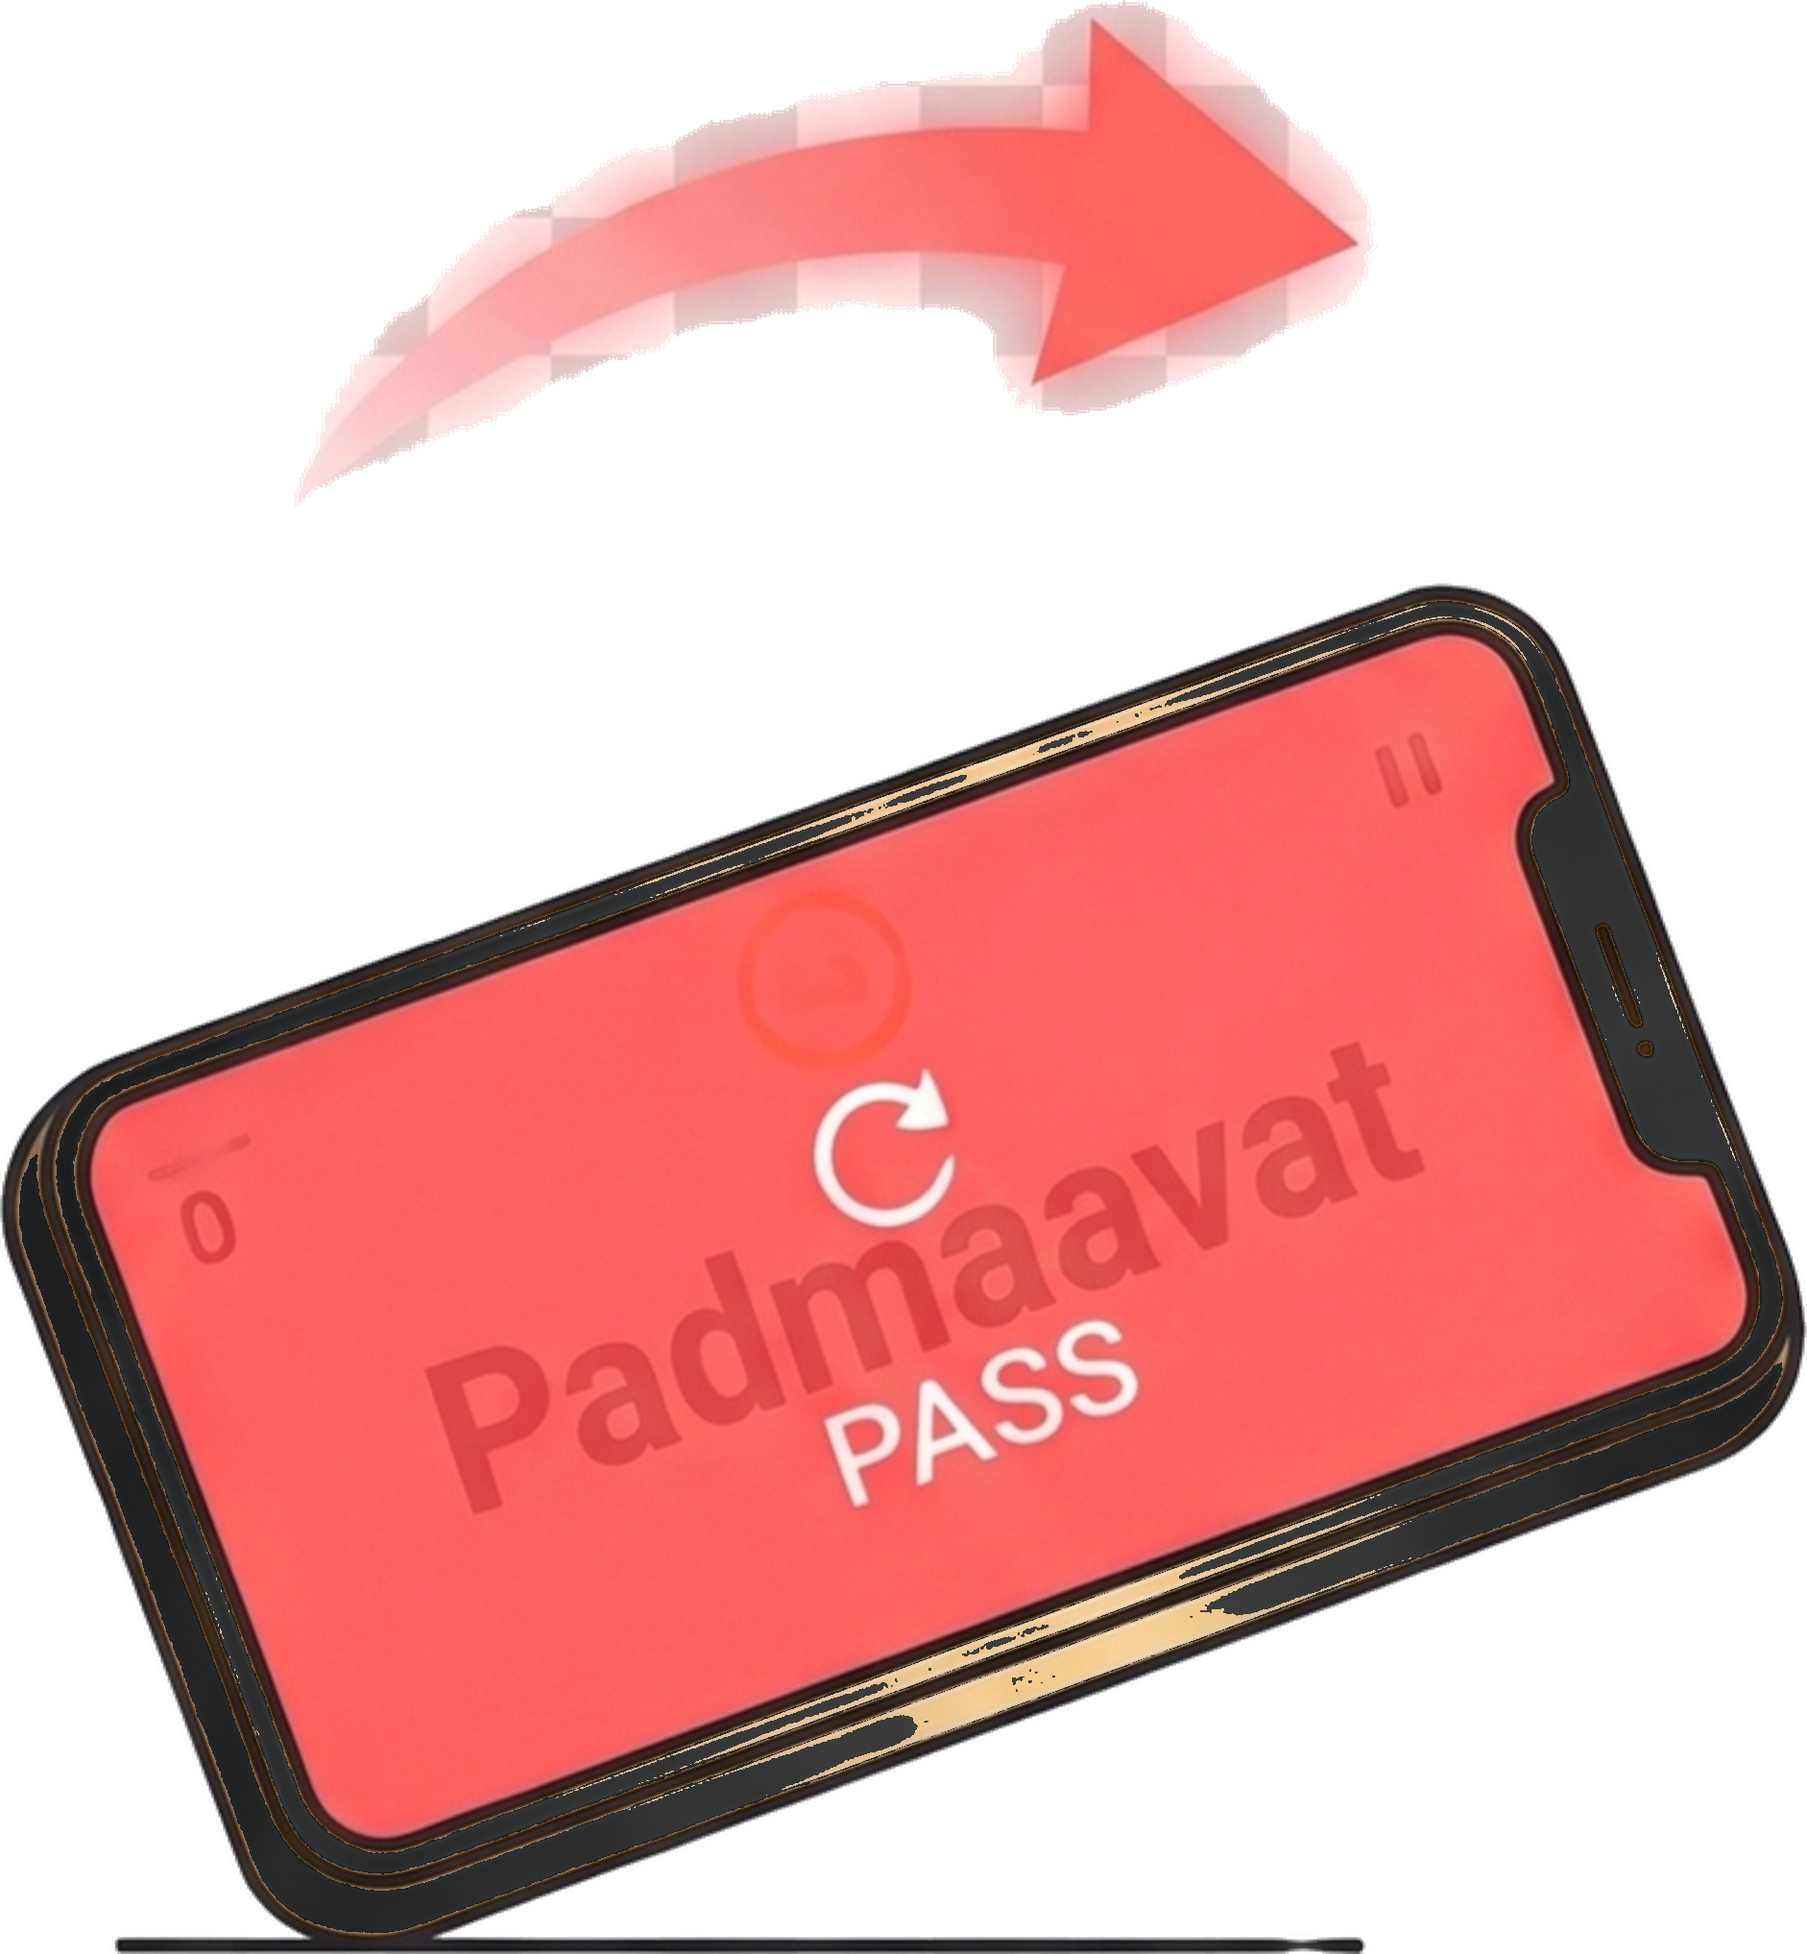
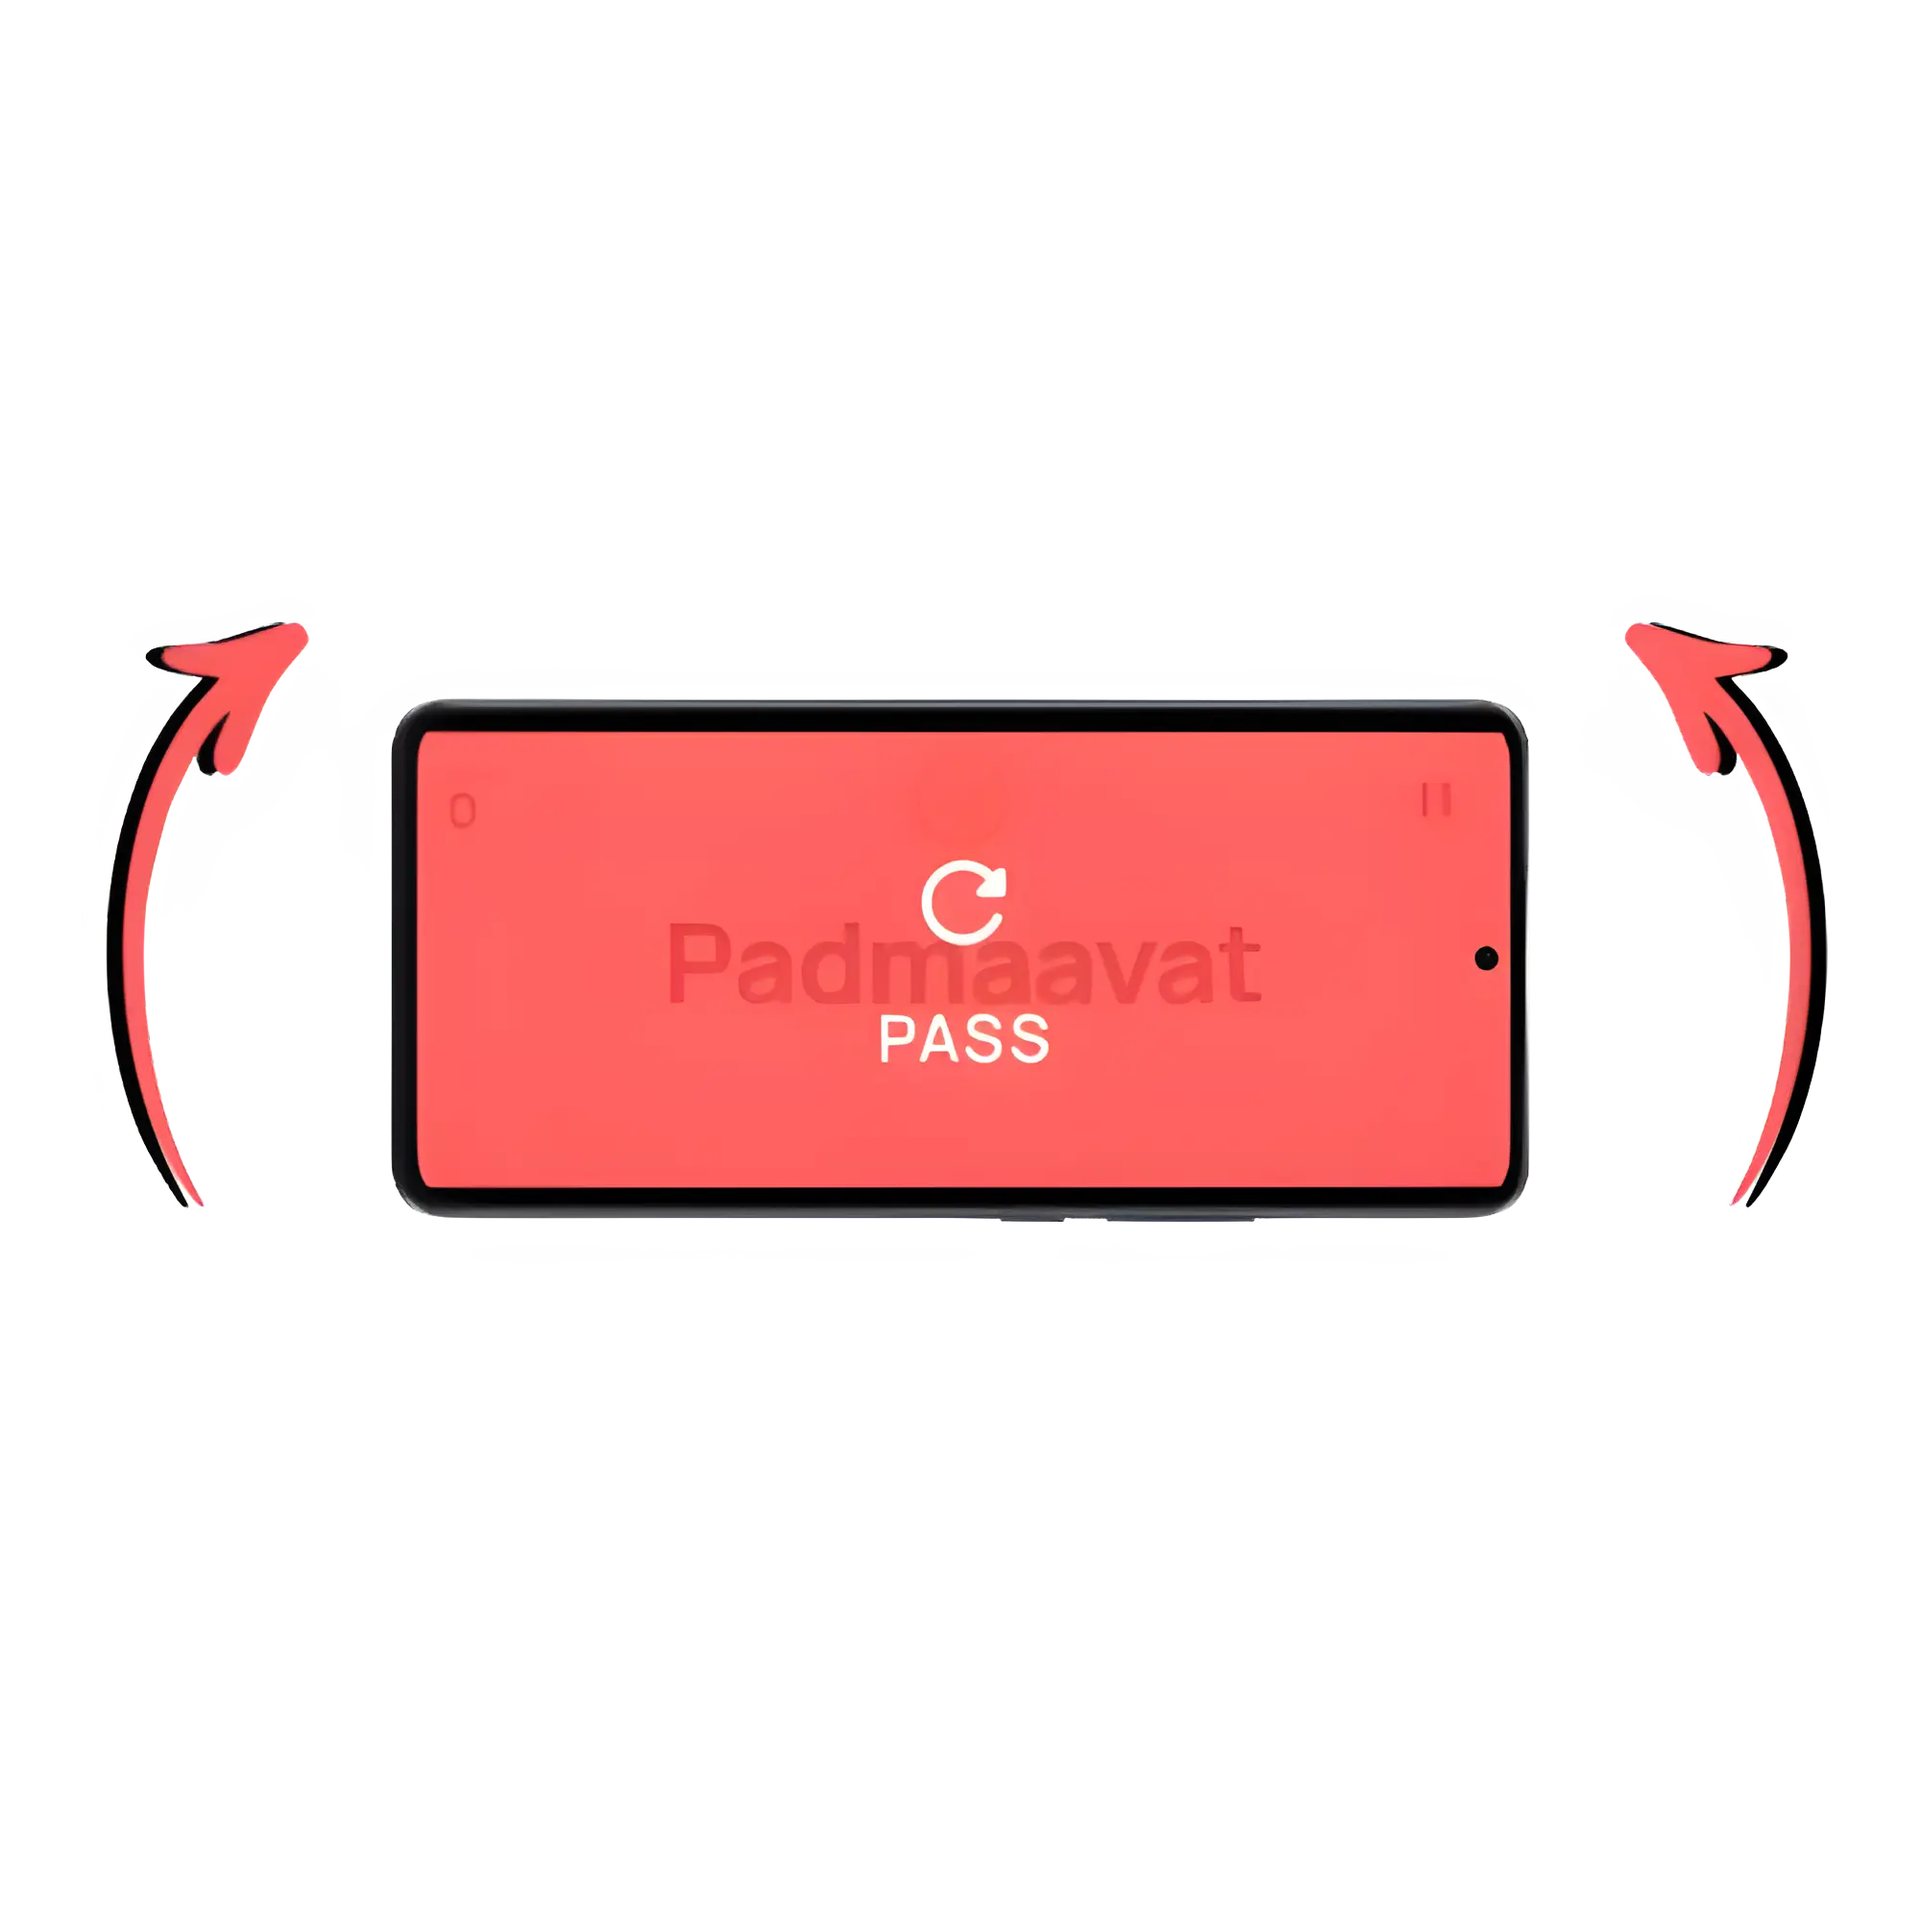
Updated onboarding images

diff --git a/lib/screens/game_screen.dart b/lib/screens/game_screen.dart
@@ -336,41 +336,39 @@ class _GameScreenState extends State<GameScreen> with WidgetsBindingObserver {
           builder: (context, value, child) {
             final timerProgress =
                 (widget.time > 0) ? value.remaining / widget.time : 0.0;
-            return SafeArea(
-              child: Scaffold(
-                body: Stack(
-                  children: [
-                    // 1. Main Game Content (Isolated with RepaintBoundary)
-                    RepaintBoundary(
-                      child: Center(child: _buildMainContent(theme)),
-                    ),
-                    // 2. Top Bar (Centered horizontally now, but visually acts as top bar)
-                    Positioned(
-                      top: 10, // Adjusted top spacing
-                      left: 20,
-                      right: 20,
-                      child: Padding(
-                        padding: const EdgeInsets.all(8.0),
-                        child: GameTopBar(
-                          score: score,
-                          timerProgress: timerProgress,
-                          remainingTime: value.remaining,
-                          isGamePaused: isGamePaused,
-                          onPauseToggle: handleGamePauseToggle,
-                        ),
-                      ),
-                    ),
-                    // 3. Pause Overlay
-                    if (isGamePaused)
-                      GamePauseOverlay(
+            return Scaffold(
+              body: Stack(
+                children: [
+                  // 1. Main Game Content (Isolated with RepaintBoundary)
+                  RepaintBoundary(
+                    child: Center(child: _buildMainContent(theme)),
+                  ),
+                  // 2. Top Bar (Centered horizontally now, but visually acts as top bar)
+                  Positioned(
+                    top: 10, // Adjusted top spacing
+                    left: 20,
+                    right: 20,
+                    child: Padding(
+                      padding: const EdgeInsets.all(8.0),
+                      child: GameTopBar(
                         score: score,
-                        onResumePressed: handleGamePauseToggle,
-                        onExitPressed: _handleExitGamePressed,
+                        timerProgress: timerProgress,
+                        remainingTime: value.remaining,
+                        isGamePaused: isGamePaused,
+                        onPauseToggle: handleGamePauseToggle,
                       ),
-                    // 4. Feedback Overlay (Correct/Pass) - Replaces Dialog
-                    if (_feedbackMessage != null) _buildFeedbackOverlay(),
-                  ],
-                ),
+                    ),
+                  ),
+                  // 3. Pause Overlay
+                  if (isGamePaused)
+                    GamePauseOverlay(
+                      score: score,
+                      onResumePressed: handleGamePauseToggle,
+                      onExitPressed: _handleExitGamePressed,
+                    ),
+                  // 4. Feedback Overlay (Correct/Pass) - Replaces Dialog
+                  if (_feedbackMessage != null) _buildFeedbackOverlay(),
+                ],
               ),
             );
           },

diff --git a/lib/screens/onboarding_screen.dart b/lib/screens/onboarding_screen.dart
@@ -3,6 +3,7 @@ import 'package:flutter/cupertino.dart';
 import 'package:flutter/material.dart';
 import 'package:flutter/services.dart';
 import 'package:guess_up/models/category.dart';
+import 'package:guess_up/screens/config_screen.dart';
 import 'package:guess_up/screens/game_screen.dart';
 import 'package:guess_up/screens/home_screen.dart';
 import 'package:guess_up/services/category_service.dart';
@@ -206,7 +207,7 @@ class _OnboardingScreenState extends State<OnboardingScreen>
                       child: Text(
                         _currentPage == 4
                             ? widget.isRevisiting
-                                ? "START"
+                                ? "START GUESSING"
                                 : "START FIRST GAME NOW"
                             : "NEXT",
                         style: const TextStyle(
@@ -321,10 +322,11 @@ class _OnboardingScreenState extends State<OnboardingScreen>
           // Transparent Vector Illustration Container
           Container(
             height: 220,
+            width: 300,
             padding: const EdgeInsets.all(8),
             child: Image.asset(
               'assets/images/onboarding/3.webp',
-              fit: BoxFit.contain,
+              fit: BoxFit.cover,
             ),
           ),
           const SizedBox(height: 24),
@@ -361,10 +363,11 @@ class _OnboardingScreenState extends State<OnboardingScreen>
           // Transparent Vector Illustration Container
           Container(
             height: 220,
+            width: 300,
             padding: const EdgeInsets.all(8),
             child: Image.asset(
               'assets/images/onboarding/4.webp',
-              fit: BoxFit.contain,
+              fit: BoxFit.cover,
             ),
           ),
           const SizedBox(height: 24),
@@ -469,6 +472,14 @@ class _OnboardingScreenState extends State<OnboardingScreen>
                 ),
               ],
             ),
+          ),
+          TextButton(
+            onPressed: () {
+              Navigator.of(context).pushReplacement(
+                CupertinoPageRoute(builder: (_) => const ConfigScreen()),
+              );
+            },
+            child: Text("Change config"),
           ),
           const Spacer(flex: 2),
         ],
